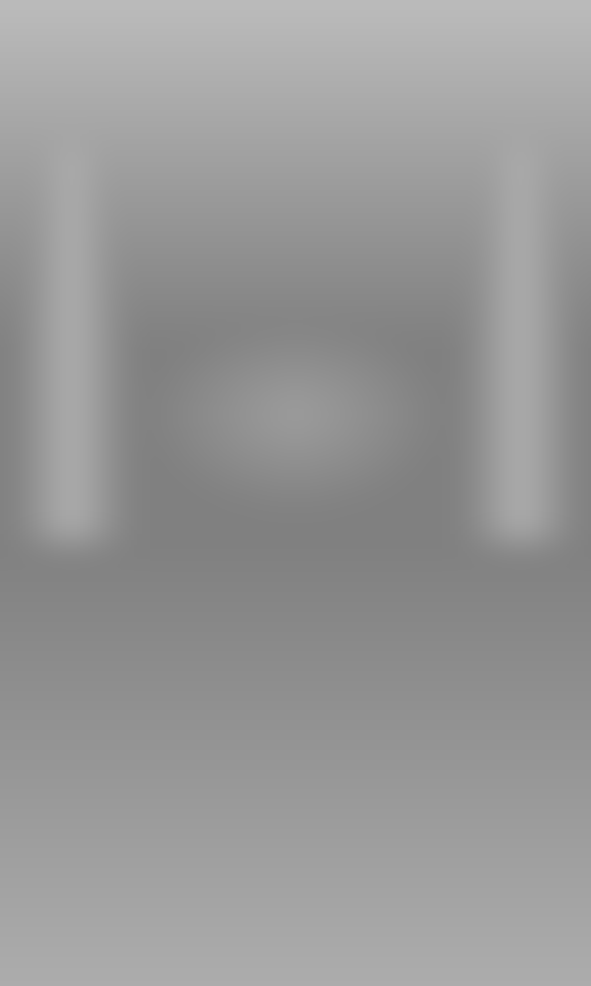
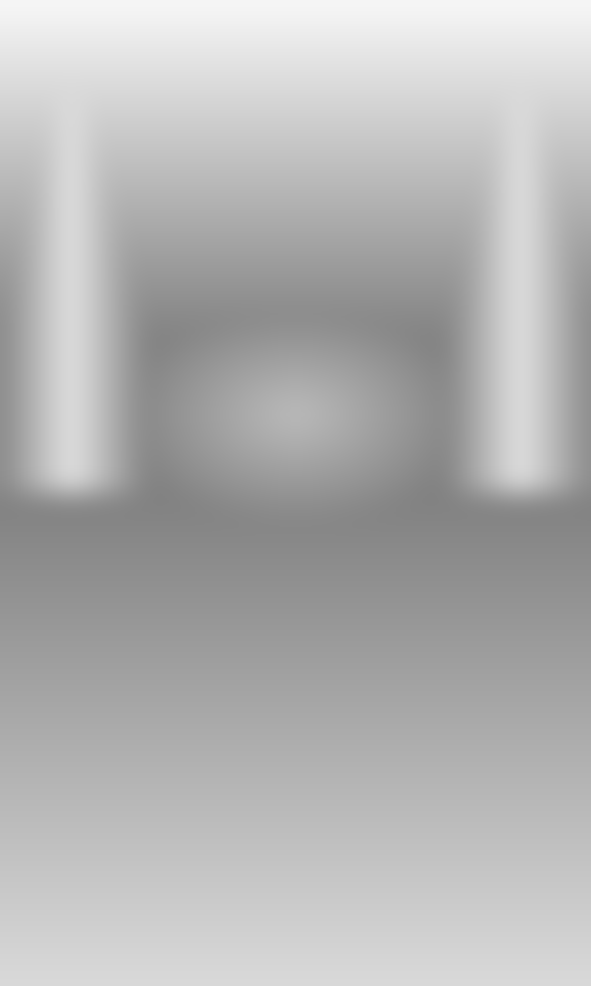
fix: much stronger animation + sharper image quality
- Displacement scale 5x bigger (20±15 px vs 4±3)
- Visible side-to-side rocking (6px drift)
- Visible vertical bob (3px)
- Breathing amplitude 3x (1.5% scale pulse)
- Displacement map values pushed to 128-248 range (was 128-188)
- Source image sharpened and contrast boosted
- Canvas image-rendering: crisp-edges for sharp pixels

diff --git a/character-live2d.js b/character-live2d.js
@@ -26,7 +26,7 @@
     backgroundAlpha: 0,
     antialias: true,
     autoDensity: true,
-    resolution: 2,  // 2x resolution for sharp rendering
+    resolution: 2,
   });
 
   var sprite = null;
@@ -70,50 +70,47 @@
 
     var s = getSize();
 
-    // Breathing — visible chest rise/fall
-    var breathCycle = Math.sin(time * 2.0) * 0.008;
-    var breathY = 1 + breathCycle;
-
-    // Idle sway — gentle side-to-side rocking
-    var swayCycle = Math.sin(time * 0.8) * 0.005;
-    var swayX = 1 + swayCycle;
-
     if (sprite) {
       var tw = sprite.texture.width;
       var th = sprite.texture.height;
       var baseScale = Math.max(s.w / tw, s.h / th);
 
-      sprite.scale.set(baseScale * swayX, baseScale * breathY);
+      // Breathing — visible scale pulse
+      var breathY = 1 + Math.sin(time * 2.2) * 0.015;
+      var breathX = 1 + Math.sin(time * 2.2) * 0.005;
+      sprite.scale.set(baseScale * breathX, baseScale * breathY);
 
-      // Horizontal drift — character sways left/right
-      var drift = Math.sin(time * 0.6) * 3;
+      // Side-to-side rocking — clearly visible
+      var drift = Math.sin(time * 0.7) * 6;
       sprite.x = s.w / 2 + drift;
 
-      // Mouse parallax on hover
+      // Vertical float — gentle bobbing
+      var bob = Math.sin(time * 1.0) * 3;
+      sprite.y = bob;
+
+      // Mouse parallax
       if (isHovering) {
-        sprite.x += (mouseX - s.w / 2) * 0.02;
-        sprite.y = (mouseY - s.h / 2) * 0.01;
-      } else {
-        // Subtle vertical bob
-        sprite.y = Math.sin(time * 1.2) * 1.5;
+        sprite.x += (mouseX - s.w / 2) * 0.04;
+        sprite.y += (mouseY - s.h / 2) * 0.02;
       }
     }
 
-    // Displacement — hair and robe flowing
+    // Displacement — strong flowing distortion for hair/robes
     if (dispFilter) {
-      var baseDisp = 8 + Math.sin(time * 1.0) * 6;
-      dispFilter.scale.x = baseDisp * (isHovering ? 2.0 : 1);
-      dispFilter.scale.y = 5 + Math.sin(time * 1.5) * 4;
+      dispFilter.scale.x = 20 + Math.sin(time * 1.3) * 15;
+      dispFilter.scale.y = 12 + Math.cos(time * 1.8) * 10;
+      if (isHovering) {
+        dispFilter.scale.x *= 1.5;
+        dispFilter.scale.y *= 1.5;
+      }
     }
 
     if (dispSprite) {
-      // Scroll displacement map for organic wave motion
-      dispSprite.x = Math.sin(time * 0.5) * 8;
-      dispSprite.y = Math.cos(time * 0.7) * 6;
+      dispSprite.x = Math.sin(time * 0.5) * 12;
+      dispSprite.y = Math.cos(time * 0.8) * 10;
     }
   }
 
-  // Mouse tracking
   panel.addEventListener('mouseenter', function () { isHovering = true; });
   panel.addEventListener('mouseleave', function () { isHovering = false; });
   panel.addEventListener('mousemove', function (e) {
@@ -122,19 +119,16 @@
     mouseY = e.clientY - rect.top;
   });
 
-  // Resize
   var resizeTimer;
   window.addEventListener('resize', function () {
     clearTimeout(resizeTimer);
     resizeTimer = setTimeout(fitSprite, 100);
   });
 
-  // Refit when report content changes
   var tsum = document.getElementById('tsum');
   if (tsum) {
-    var observer = new MutationObserver(function () {
+    new MutationObserver(function () {
       setTimeout(fitSprite, 50);
-    });
-    observer.observe(tsum, { childList: true, subtree: true, characterData: true });
+    }).observe(tsum, { childList: true, subtree: true, characterData: true });
   }
 })();

diff --git a/styles.css b/styles.css
@@ -432,6 +432,8 @@ h1, h2, h3, h4, h5, h6 {
   display: block;
   width: 100% !important;
   height: 100% !important;
+  image-rendering: -webkit-optimize-contrast;
+  image-rendering: crisp-edges;
 }
 
 .character-glow {
